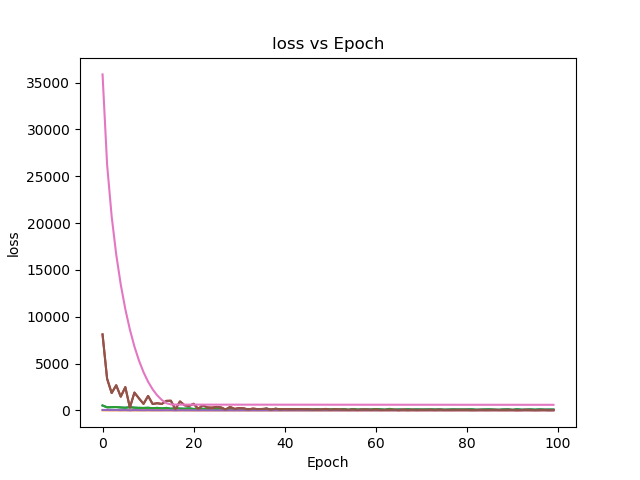
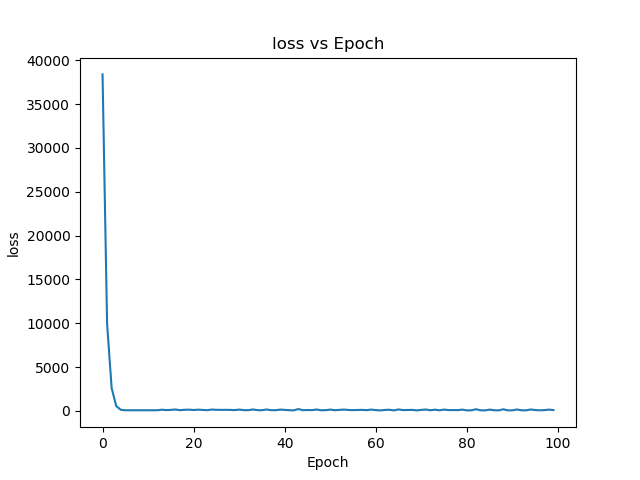
polish graphs

diff --git a/question-1/question-1.py b/question-1/question-1.py
@@ -94,6 +94,7 @@ for key in history.history:
     plt.xlabel('Epoch')
     file_name = model_name + "_" + key + ".png"
     plt.savefig("output\\" + file_name)
+    plt.cla()
     # plt.show()
 
 # increase learning rate
@@ -137,6 +138,7 @@ for key in history.history:
     plt.xlabel('Epoch')
     file_name = model_name + "_" + key + ".png"
     plt.savefig("output\\" + file_name)
+    plt.cla()
     # plt.show()
 
 # increase batch size
@@ -179,6 +181,7 @@ for key in history.history:
     plt.xlabel('Epoch')
     file_name = model_name + "_" + key + ".png"
     plt.savefig("output\\" + file_name)
+    plt.cla()
     # plt.show()
 
 # change optimizer
@@ -224,6 +227,7 @@ for key in history.history:
     plt.xlabel('Epoch')
     file_name = model_name + "_" + key + ".png"
     plt.savefig("output\\" + file_name)
+    plt.cla()
     # plt.show()
 
 # Change activation function
@@ -266,6 +270,7 @@ for key in history.history:
     plt.xlabel('Epoch')
     file_name = model_name + "_" + key + ".png"
     plt.savefig("output\\" + file_name)
+    plt.cla()
     # plt.show()
 
 out_file.close()
